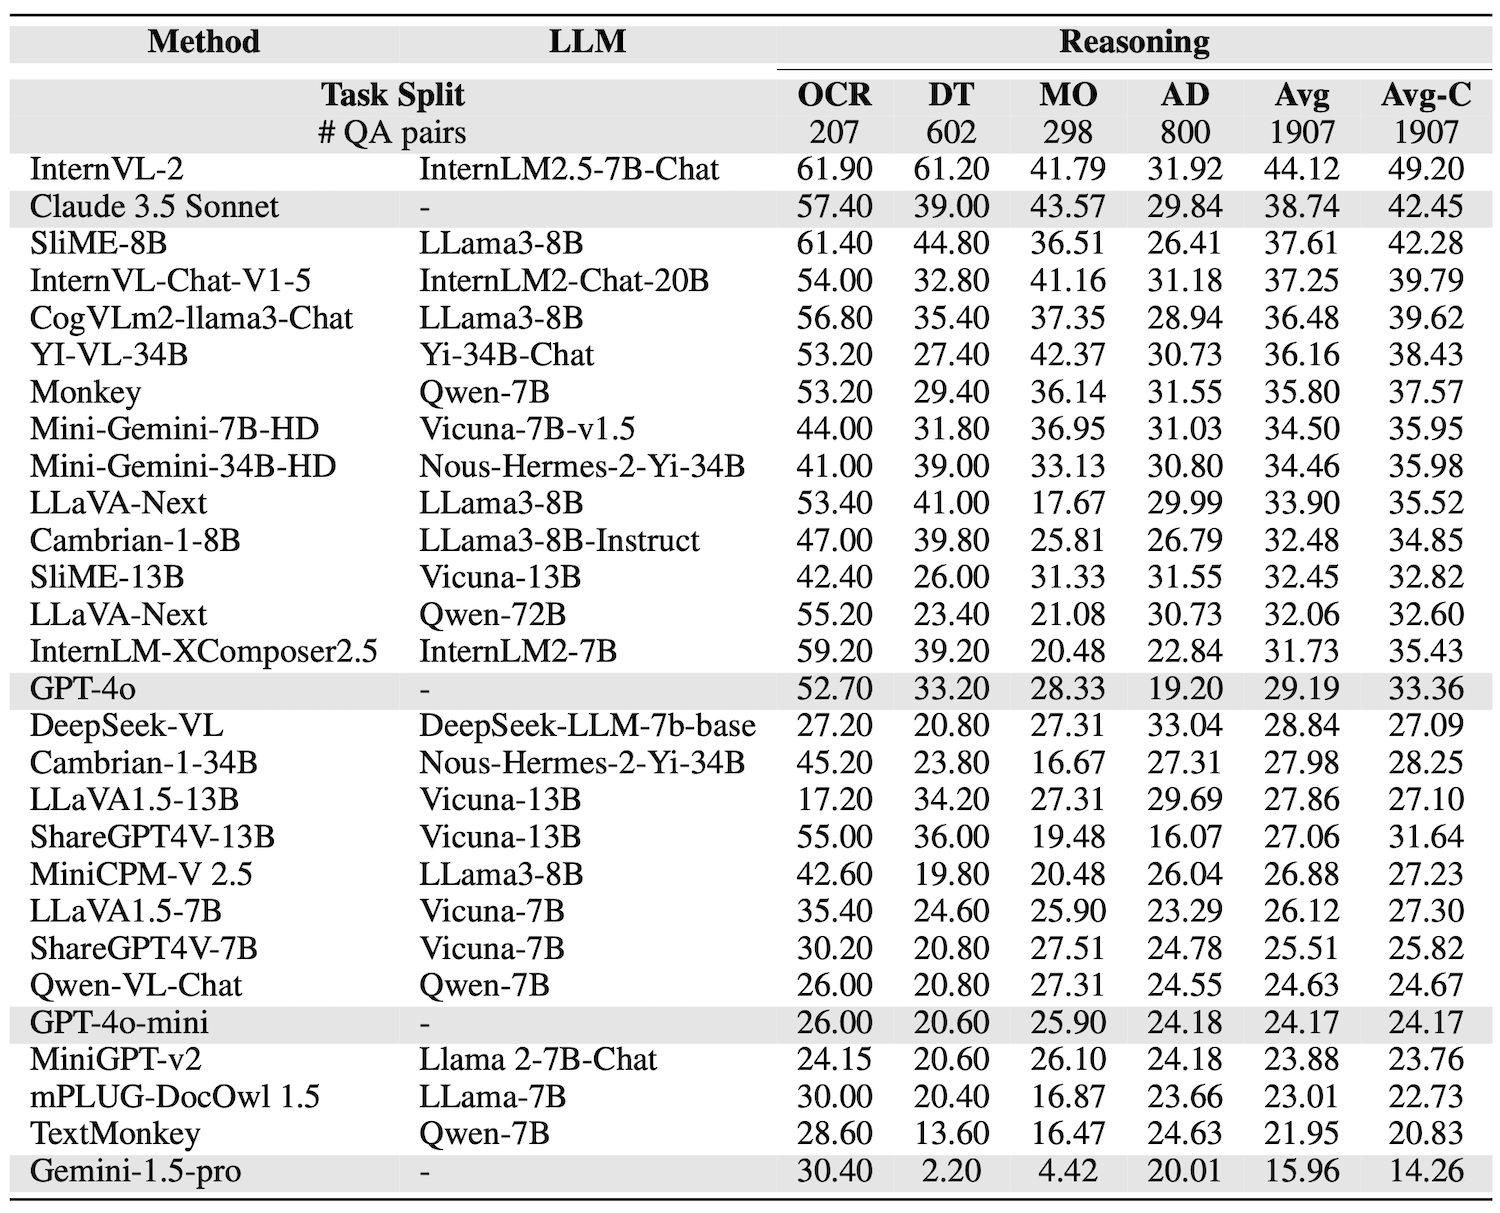
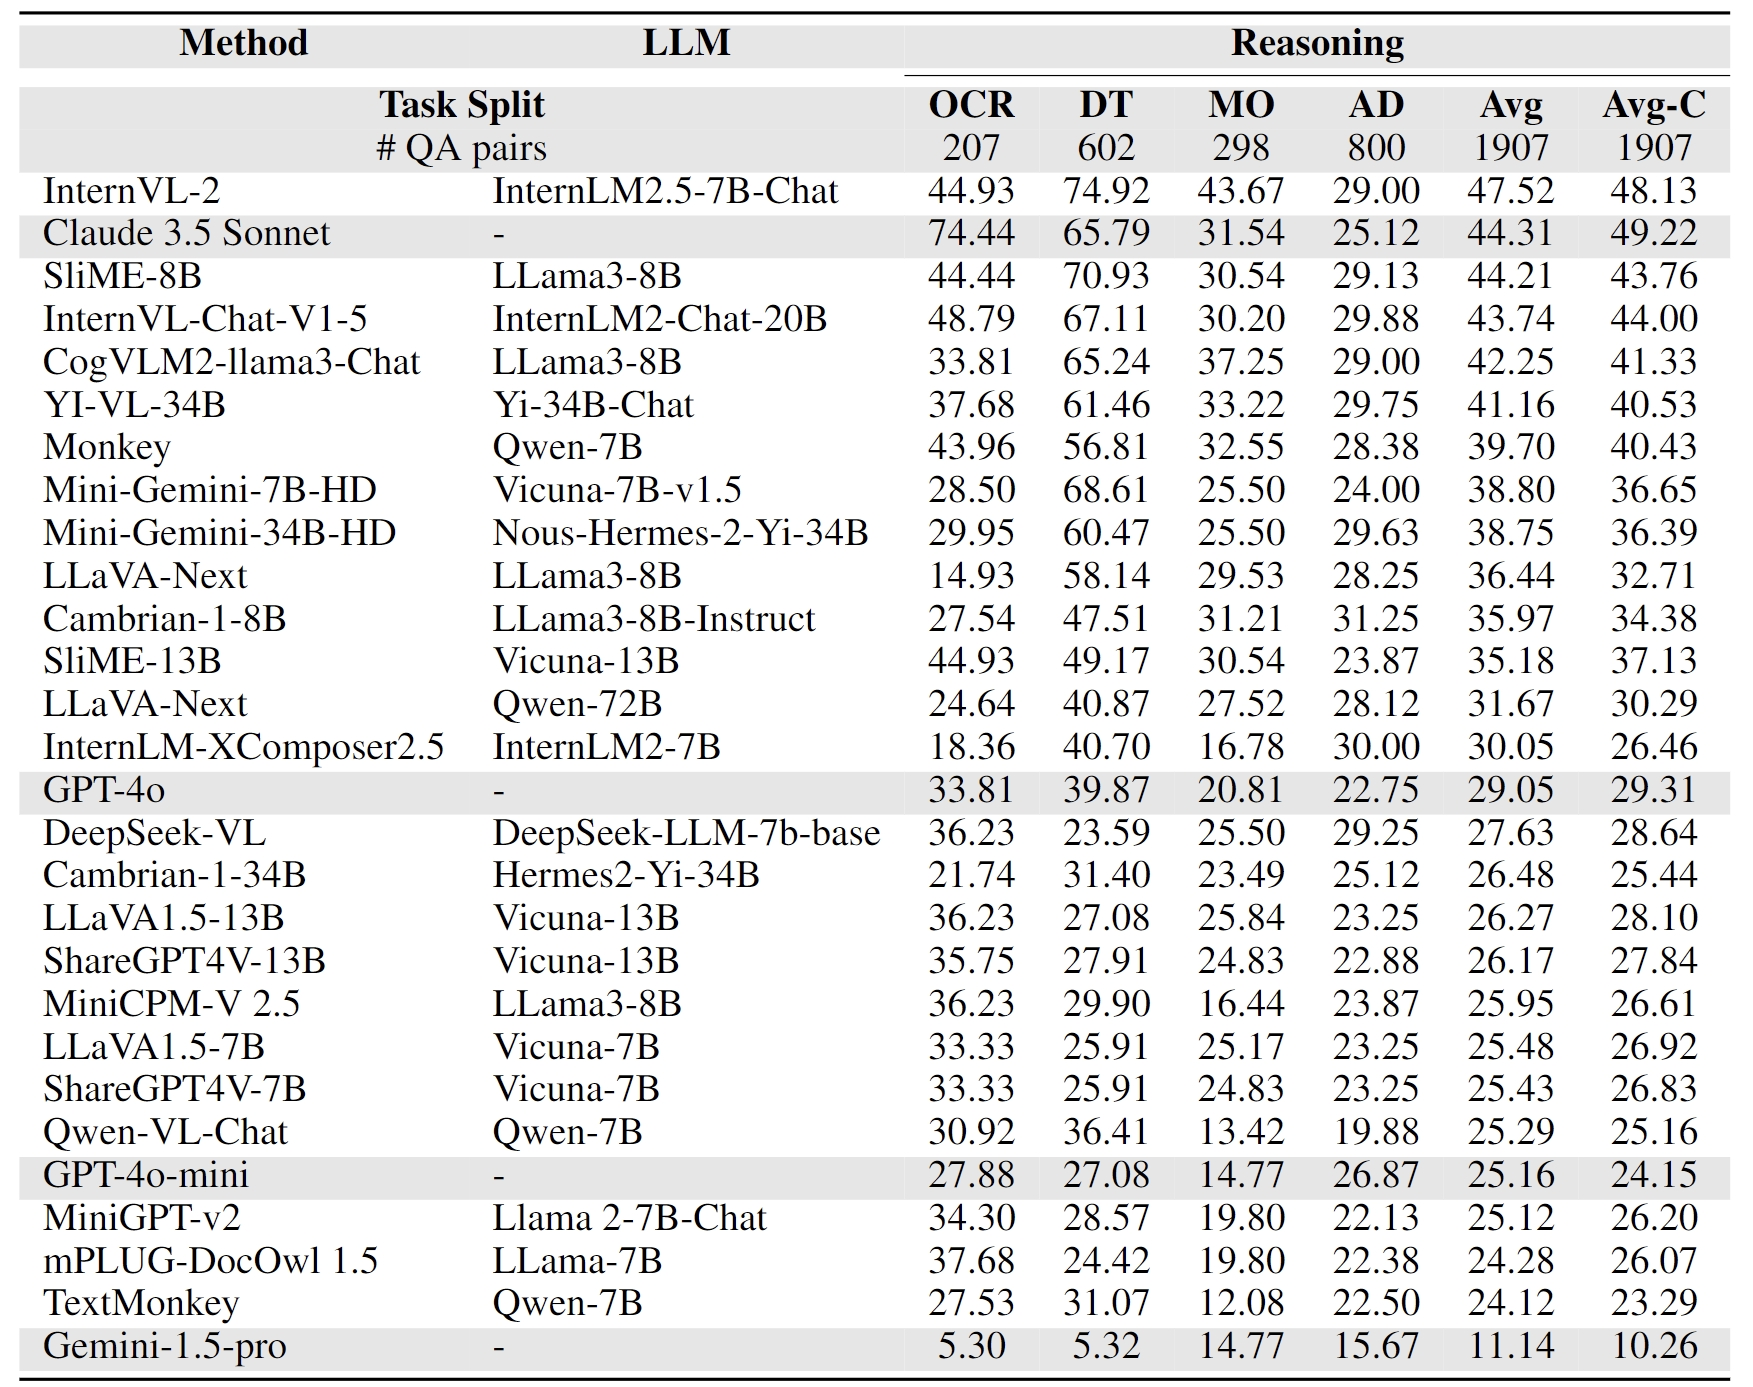
sync with new cn reasoning

Changed region(s): [[0.0, 0.0, 1.0, 1.0], [0.2147, 0.061, 0.4907, 0.1525]]

diff --git a/home_page.html b/home_page.html
@@ -1317,7 +1317,7 @@
 
     <div class="columns is-centered m-6">
       <div class="column is-full has-text-centered content">
-        <h2 class="title is-3">MME-RealWorld CN</h2>
+        <h2 class="title is-3">MME-RealWorld-CN</h2>
 
 
         <div class="box m-5">
@@ -1326,12 +1326,12 @@
           
             <div class="content has-text-centered">
               <img src="static/images/exp_results/MME_RealWorld_CN_Perception.png" alt="" width="70%"/>
-              <p style="margin-bottom: 30px;">(1) Experimental results on the MME-RealWorld CN perception tasks. </p>
+              <p style="margin-bottom: 30px;">(1) Experimental results on the MME-RealWorld-CN perception tasks. </p>
             </div>
           
             <div class="content has-text-centered">
               <img src="static/images/exp_results/MME_RealWorld_CN_Reasoning.png" alt="" width="70%"/>
-              <p style="margin-bottom: 30px;">(2) Experimental results on the MME-RealWorld CN reasoning tasks.</p>
+              <p style="margin-bottom: 30px;">(2) Experimental results on the MME-RealWorld-CN reasoning tasks.</p>
             </div>
 
 
